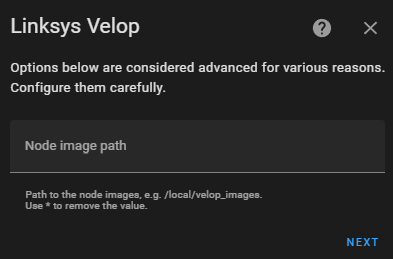
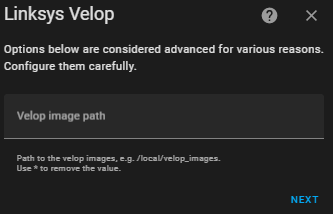
update readme

diff --git a/README.md b/README.md
@@ -389,10 +389,10 @@ It is possible to configure the following options for the integration.
 
 ![Configure Advanced Options](images/config_advanced_options.png)
 
-* `Node image path`: the path to the folder location containing the images to
-  use for nodes. This is currently used for to set the entity picture for the
-  `update` entity.  This relies on the `http` integration from HASS, details of
-  which can be found
+* `Velop image path`: the path to the folder location containing the images to
+  use for integration purposes. This is currently used for to set the entity
+  picture for various entities. It relies on the `http` integration from HASS,
+  details of which can be found
   [here](https://www.home-assistant.io/integrations/http), and more specifically
   [here](https://www.home-assistant.io/integrations/http#hosting-files) for the
   path to place the files in.
